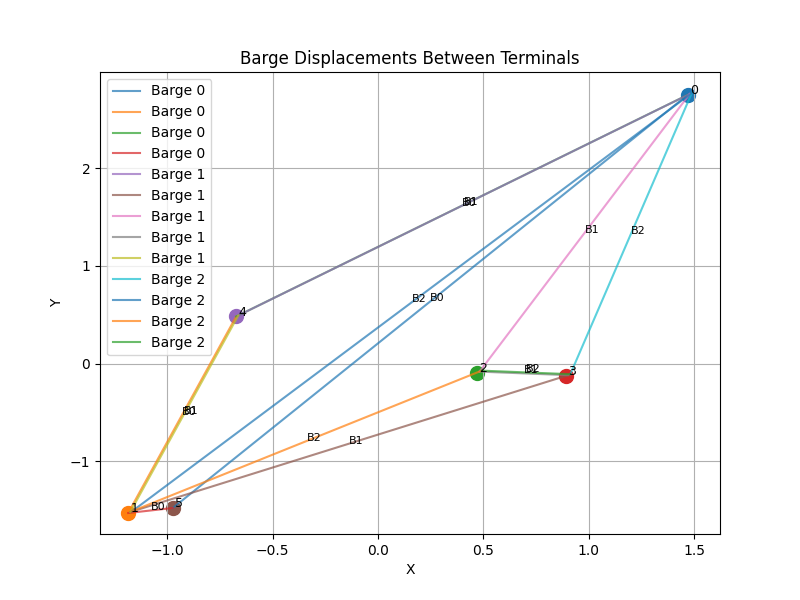
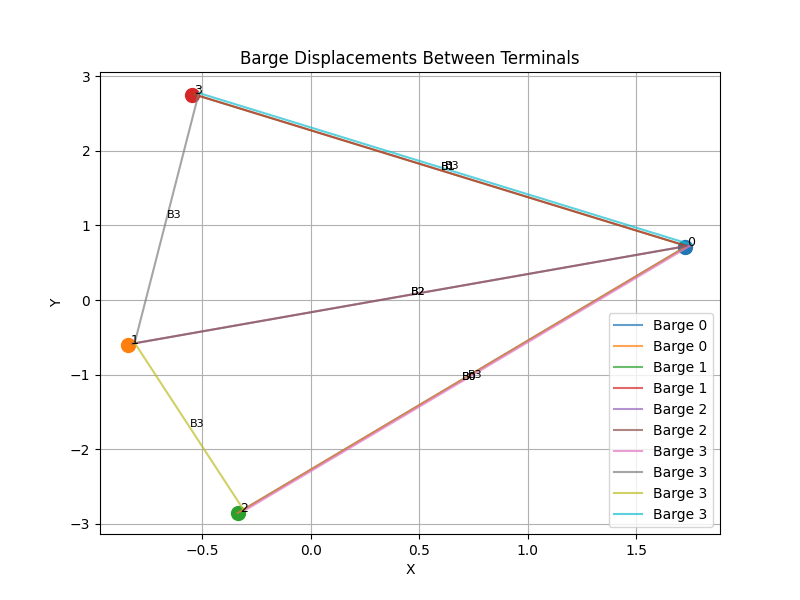
Ran some more tests, and found a very cool seed and setting. the last image in the file.

diff --git a/MILP.py b/MILP.py
@@ -42,7 +42,7 @@ class MILP_Algo:
                 6000,      # Barge 5
                 6000,      # Barge 6
             ],
-            seed=100,
+            seed=0,
             reduced=False,
             h_t_40=200_000,                     # 40ft container trucking cost in euros
             h_t_20=140_000,                     # 20ft container trucking cost in euros
@@ -51,11 +51,11 @@ class MILP_Algo:
             N_range=(6, 6),                 # (min, max) number of terminals when reduced=False
 
             Oc_range=(24, 196),             # (min, max) opening time in hours
-            Oc_offset_range=(50, 220),      # (min_offset, max_offset) such that
+            Oc_offset_range=(150, 420),      # (min_offset, max_offset) such that
                                             # Dc is drawn in [Oc + min_offset, Oc + max_offset]
 
-            Travel_time_long_range=(3, 6),   # (min, max) travel time between dryport and sea terminals in hours
-            travel_angle = math.pi * 1/4,          # angle sector for terminal placement
+            travel_time_long_range=(3, 5),   # (min, max) travel time between dryport and sea terminals in hours
+            travel_angle = math.pi, #* 1/6,          # angle sector for terminal placement
             # Travel_time_short_range=(1, 1),  # (min, max) travel time between sea terminals in hours
 
             P40_range=(0.75, 0.9),          # (min, max) probability of 40ft container
@@ -92,7 +92,7 @@ class MILP_Algo:
             "N_range": N_range,
             "Oc_range": Oc_range,
             "Oc_offset_range": Oc_offset_range,
-            "Travel_time_long_range": Travel_time_long_range,
+            "travel_time_long_range": travel_time_long_range,
             "travel_angle": travel_angle,
             "P40_range": P40_range,
             "PExport_range": PExport_range,
@@ -122,7 +122,7 @@ class MILP_Algo:
         self.P40_range = P40_range
         self.PExport_range = PExport_range
 
-        self.travel_time_long_range = Travel_time_long_range
+        self.travel_time_long_range = travel_time_long_range
         self.travel_angle = travel_angle
         # self.travel_time_short_range = Travel_time_short_range
 
@@ -1927,7 +1927,7 @@ class MILP_Algo:
         # --------------------------
         # Draw curved barge paths
         # --------------------------
-        multiplier = 1.3
+        multiplier = 1.8
         # curvature_values = [0.12*multiplier, -0.12*multiplier, 0.18*multiplier, -0.18*multiplier, 0.25*multiplier, -0.25*multiplier, 0.32*multiplier, -0.32*multiplier, 0.40*multiplier, -0.40*multiplier]
         # curvature_values = [0.12*multiplier, -0.12*multiplier, 0.40*multiplier, -0.40*multiplier, 0.18*multiplier, -0.18*multiplier, 0.25*multiplier, -0.25*multiplier, 0.32*multiplier, -0.32*multiplier]
         # curvature_values = [0.12*multiplier, -0.12*multiplier, 0.40*multiplier, -0.40*multiplier, 0.18*multiplier, -0.18*multiplier, 0.25*multiplier, -0.25*multiplier, 0.32*multiplier, -0.32*multiplier,

diff --git a/multi_run_setup.py b/multi_run_setup.py
@@ -12,18 +12,7 @@ def multi_run_setup():
     print("Starting multi-run MILP batch...")
 
     runs = [
-        # {"run_name": "MILP_Run_1",   "reduced": True,  "N_range_reduced": (2, 2), "seed": 100},
-        # {"run_name": "MILP_Run_2",   "reduced": True,  "N_range_reduced": (2, 2), "seed": 100},
-        # {"run_name": "MILP_Run_3",   "reduced": True,  "N_range_reduced": (3, 3), "seed": 100},
-        # {"run_name": "MILP_Run_4",   "reduced": True,  "N_range_reduced": (4, 4), "seed": 100},
-        # {"run_name": "MILP_Run_5",   "reduced": True,  "N_range_reduced": (5, 5), "seed": 100},
-        # {"run_name": "MILP_Run_5_1", "reduced": True,  "N_range_reduced": (5, 5), "seed": 101},
-        {"run_name": "MILP_Run_5_2", "reduced": True,  "N_range_reduced": (5, 5), "seed": 0},
-        {"run_name": "MILP_Run_5_3", "reduced": True,  "N_range_reduced": (5, 5), "seed": 1},
-        {"run_name": "MILP_Run_6",   "reduced": True,  "N_range_reduced": (6, 6), "seed": 100},
-        {"run_name": "MILP_Run_6_1",   "reduced": True,  "N_range_reduced": (6, 6), "seed": 101},
-        {"run_name": "MILP_Run_7",   "reduced": True,  "N_range_reduced": (7, 7), "seed": 100},
-        {"run_name": "MILP_Run_8",   "reduced": True,  "N_range_reduced": (8, 8), "seed": 100},
+        {"run_name": "MILP_Run_1",   "reduced": True,  "N_range_reduced": (2, 2), "seed": 100},
 
     ]
 
